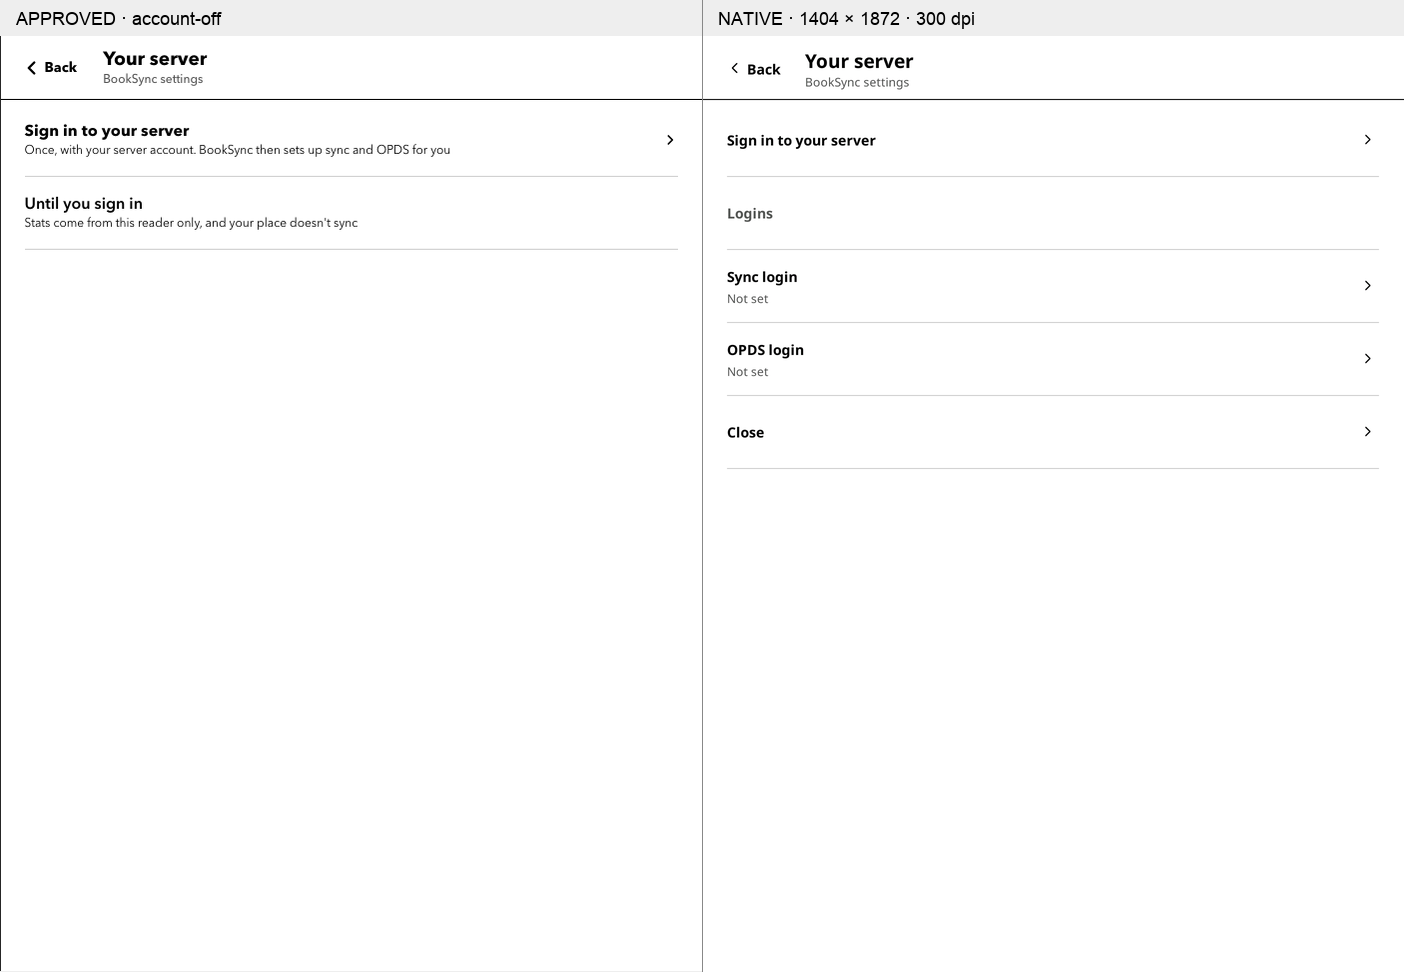
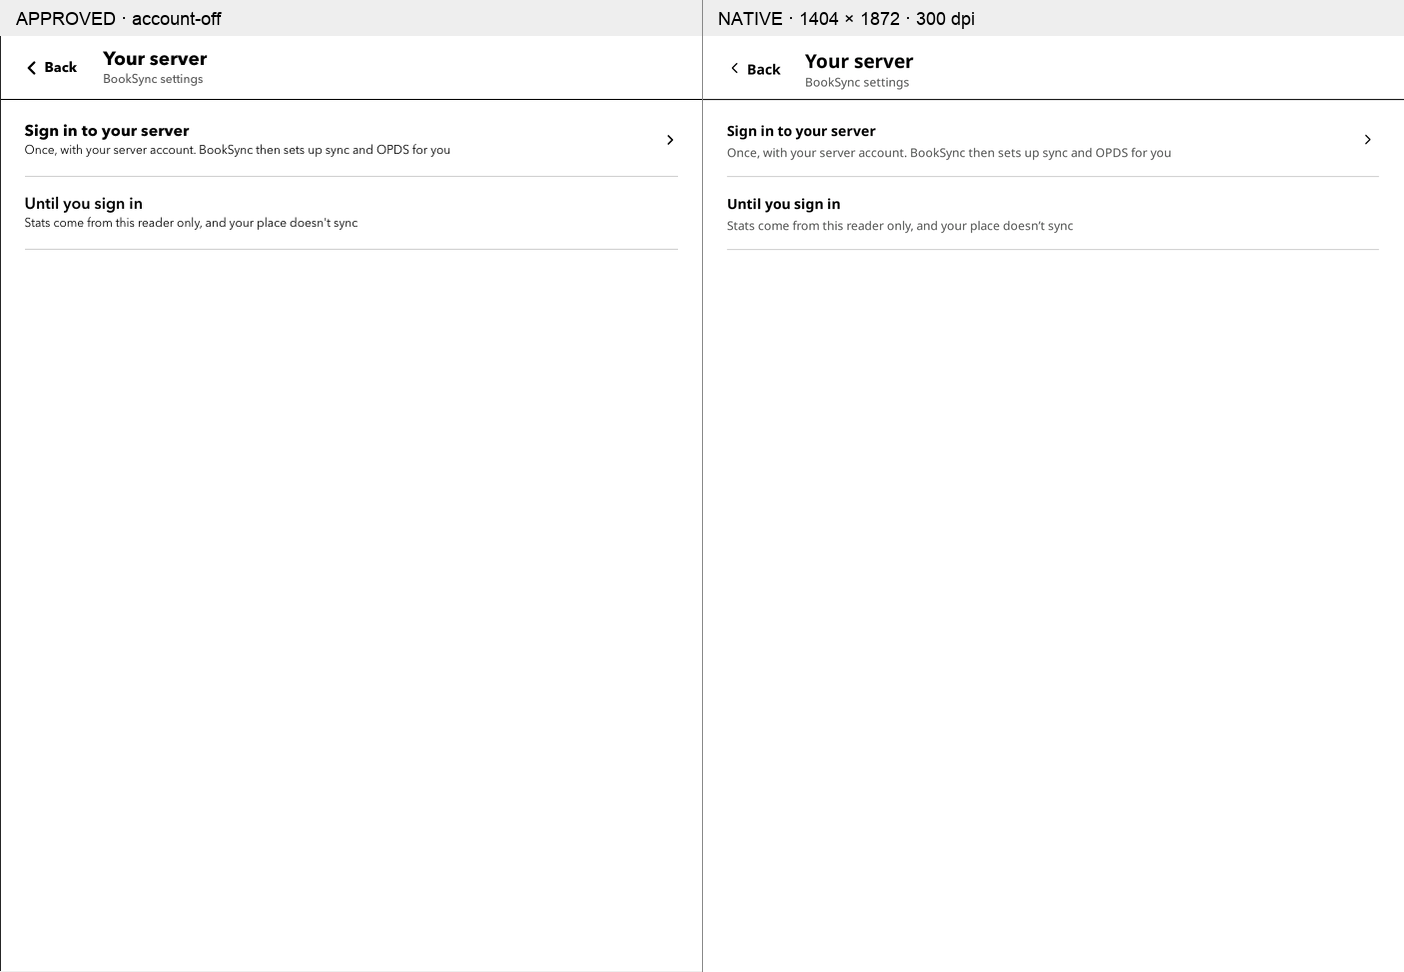
Fix V4 review: settings rows, account hierarchy and compact editors
Claude-Session: https://claude.ai/code/session_01BLYjLJzEkmBRpMx6vsJ4xw

diff --git a/tools/e2e/android/reader_companion.py b/tools/e2e/android/reader_companion.py
@@ -30,6 +30,7 @@ def review(device, out):
             if time.monotonic()>deadline: raise TimeoutError(code)
             time.sleep(.2)
     def configure(mode, protected=False):
+        book=device.command('local ui=liveUI();return ui and ui.document and ui.document.file or ""')
         xml=ET.fromstring(saved)
         values={"orbit_mode":("string",mode),"setup_later_until":("long","9000000000000000"),
                 "helper_wifi":("boolean","false"),"helper_sleep_sync":("boolean","false"),
@@ -42,6 +43,16 @@ def review(device, out):
             if kind=="string": node.text=value
             else: node.set("value",value)
         store(ET.tostring(xml,encoding="unicode"))
+        if book:
+            # Android may kill provider clients when this test force-stops the companion.
+            # A fixture-mode change starts a new reader lifetime. Actual permission return
+            # tests below never reopen a book or restore a page to satisfy an assertion.
+            device.command('Library.companion.setupLater();local w=top();if w and type(w.text)=="string" and w.text:find("setup steps",1,true) then click("Later") end;Library.open({local_path='+json.dumps(book)+'});return true')
+            wait('return liveUI() and liveUI().document and liveUI().document.file=='+json.dumps(book)+' and "ready" or "pending"')
+            wait('return not Net.inflight and not ReadingSync.busy and "ready" or "pending"')
+            # Settle the fixture's independent remote-ahead consent before starting
+            # the next return-ticket case; never do this during a permission return.
+            device.command('if PositionPrompt.current then click("No") end;assert(not PositionPrompt.current);Library._readerCompanionReviewPage=liveUI().document:getCurrentPage();return true')
     def store(value):
         device.shell("am","force-stop",PACKAGE)
         with tempfile.TemporaryDirectory() as directory:
@@ -57,7 +68,7 @@ def review(device, out):
         wait('local v=ReaderCompanionView.active;return v and v.dialog and not v.busy and v.page=="helpers" and "ready" or "pending"')
     try:
         device.wait_companion()
-        device.command('if ReaderCompanionView.active then ReaderCompanionView.active:close() end;local w=top();if w and type(w.text)=="string" and w.text:find("setup steps",1,true) then click("Later") end;Library.companion.setupLater();Library.open({local_path="/storage/emulated/0/Books/001 Seedfall.epub"});return true')
+        device.command('if ReaderCompanionView.active then ReaderCompanionView.active:close() end;while SettingsView.active do local v=SettingsView.active;v.onBack=nil;v:close() end;local w=top();if w and type(w.text)=="string" and w.text:find("setup steps",1,true) then click("Later") end;Library.companion.setupLater();Library.open({local_path="/storage/emulated/0/Books/001 Seedfall.epub"});return true')
         wait('return liveUI() and liveUI().document and liveUI().document.file:find("Seedfall",1,true) and "ready" or "pending"')
         configure("full")
         # Position consent is an allowed reader action, separate from these sheets.

diff --git a/tools/e2e/android/settings_v4.py b/tools/e2e/android/settings_v4.py
@@ -23,11 +23,10 @@ def review(d, out):
     def clean():
         d.command('if AccountView.active then AccountView.active:close() end;if ReaderCompanionView.active then ReaderCompanionView.active:close() end;while SettingsView.active do local v=SettingsView.active;v.onBack=nil;v:close() end;return true')
     clean()
-    time.sleep(2)
-    d.command('local w=top();if w and type(w.text)=="string" and w.text:find("setup steps",1,true) then click("Later") end;Library.companion.setupLater();return true')
-    step('settings-root', 'Library.companion.setupLater();plugin:showSettings()')
-    # Exercise actual native hit geometry once, rather than only calling callbacks.
-    d.shell('input', 'tap', '350', '240')
+    step('settings-root', 'plugin:showSettings();plugin:maybeSetupPrompt("resume");assert(top()==SettingsView.active.dialog)')
+    # Use the actual account-row geometry, including any non-blocking setup row.
+    point=d.command('local v=SettingsView.active;local id=v.make()[1].text=="Companion setup" and "setting-2" or "setting-1";local b=v.dialog:getButtonById(id);return math.floor(b.dimen.x+b.dimen.w/2)..","..math.floor(b.dimen.y+b.dimen.h/2)')
+    x,y=point.split(',');d.shell('input','tap',x,y)
     d.command('assert(AccountView.active and top()==AccountView.active.dialog);return true')
     clean()
     for group in ('sync', 'library', 'reading', 'home', 'sleep', 'updates', 'about'):
@@ -71,7 +70,12 @@ def review(d, out):
     while d.command('local r=SettingsView.active.make()[1];return r.pending and "pending" or "ready"') != 'ready':
         if time.monotonic() > deadline: raise TimeoutError('Local goal did not publish')
         time.sleep(.2)
-    step('goal-editor', 'SettingsView.active.dialog:getButtonById("setting-1"):onKitTap()')
+    d.command('Library.localReadingGoal("12",function() Library.retry() end);return true')
+    deadline=time.monotonic()+40
+    while d.command('local p=Library.paint("settings-reading-statistics");local r=p:localReading();p:flush();return r.target==12 and "ready" or "pending"')!='ready':
+        if time.monotonic()>deadline:raise TimeoutError('Current goal 12 did not publish')
+        time.sleep(.2)
+    step('goal-editor', 'SettingsView.active:paint();SettingsView.active.dialog:getButtonById("setting-1"):onKitTap();assert(top():getButtonById("goal-number").text=="12")')
     step('goal-keyboard', 'top():getButtonById("goal-number"):onKitTap()')
     d.command('local input;for _,w in ipairs(UI._window_stack) do if w.widget.setInputText then input=w.widget end end;assert(input and input.input_type=="number");input:setInputText("12");input.buttons[1][2].callback();return true')
     step('goal-number', 'assert(top():getButtonById("goal-save"));top():getButtonById("goal-save"):onKitTap()')

diff --git a/docs/review/v4-settings/README.md b/docs/review/v4-settings/README.md
@@ -1,8 +1,8 @@
 # V4 emulator review
 
-V4 settings, account, goals and custom editors. Left: approved crop. Right: actual KOReader on the dedicated M8C-sized Android emulator. Fixture: 59 synthetic books, generated covers, six in progress, five finished and 58 days of history. No physical reader was used.
+Round 1: setup is an owned non-blocking row; values are bold with chevrons; account rows, helper footers, compact result, saved goal 12 and outlined margins Done are corrected. V4 settings, account, goals and custom editors. Left: approved crop. Right: actual KOReader on the dedicated M8C-sized Android emulator. Fixture: 59 synthetic books, generated covers, six in progress, five finished and 58 days of history. No physical reader was used.
 
-Bundled Noto/FreeSerif replace unavailable proprietary Avenir/Iowan/Baskerville/Literata faces. Native KOReader keyboards and Android permission dialogs are retained. Account connection uses the available signed-in state, not an invented connectivity probe. Battery estimates remain pending until sufficient device observations exist. Later existing settings and login-source rows are retained, which changes pagination compared with older crops. Goals/companion references are conceptual component mockups; surrounding document prose is not reader UI.
+Bundled Noto/FreeSerif replace unavailable proprietary Avenir/Iowan/Baskerville/Literata faces. Native KOReader keyboards and Android permission dialogs are retained. Account connection uses the available signed-in state, not an invented connectivity probe. Battery estimates remain pending until sufficient device observations exist. Existing later reading-statistics and explicit login-source settings remain; some section pagination differs from older crops. Goals/companion references are conceptual component mockups; surrounding document prose is not reader UI.
 
 Capture: `python3 tools/e2e/android/settings_v4.py --serial emulator-N --out <out>`, followed by `reader_companion.py` for real Android denial/grant/revocation. The companion is the disposable `tools/e2e/android/E2eServerAdapters.kt` fixture, not a live server.
 
